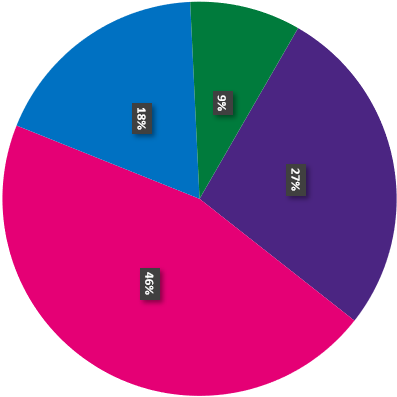
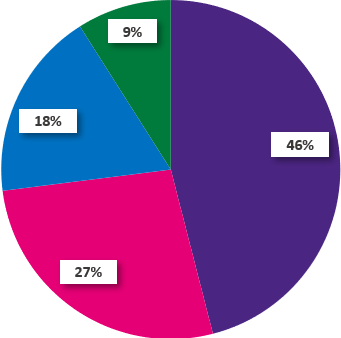
change image and colors

diff --git a/style.css b/style.css
@@ -53,12 +53,12 @@ h2 {
   gap: 1.3rem;
 }
 .legend li.dog {
-  border: 1px solid hsl(329, 100%, 90%);
-  border-left: 1rem solid rgb(229, 0, 117);
-}
-.legend li.cat {
   border: 1px solid hsl(265, 56%, 90%);
   border-left: 1rem solid rgb(75, 37, 130);
+}
+.legend li.cat {
+  border: 1px solid hsl(329, 100%, 90%);
+  border-left: 1rem solid rgb(229, 0, 117);
 }
 .legend li.guinea-pig {
   border: 1px solid hsl(205, 100%, 90%);
@@ -78,10 +78,10 @@ h2 {
   flex: 0 0 30%;
 }
 .legend li.dog span {
-  color: rgb(229, 0, 117);
+  color: rgb(75, 37, 130);
 }
 .legend li.cat span {
-  color: rgb(75, 37, 130);
+  color: rgb(229, 0, 117);
 }
 .legend li.guinea-pig span {
   color: rgb(0, 113, 194);

diff --git a/index.html b/index.html
@@ -38,7 +38,7 @@
       <li class="details guinea-pig">
         <span>18%</span>
         <div class="text">
-          <h3>Guinnea pig</h3>
+          <h3>Guinea pig</h3>
           <p class="item-description">I guess some people see the point. I don't.</p>
         </div>
       </li>
